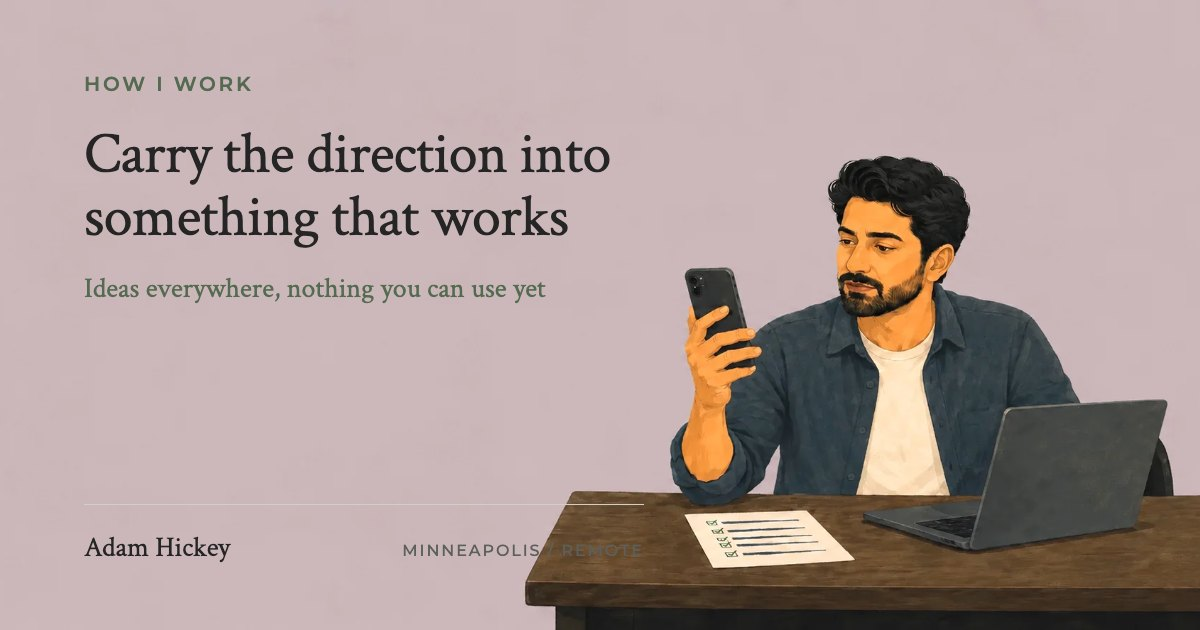
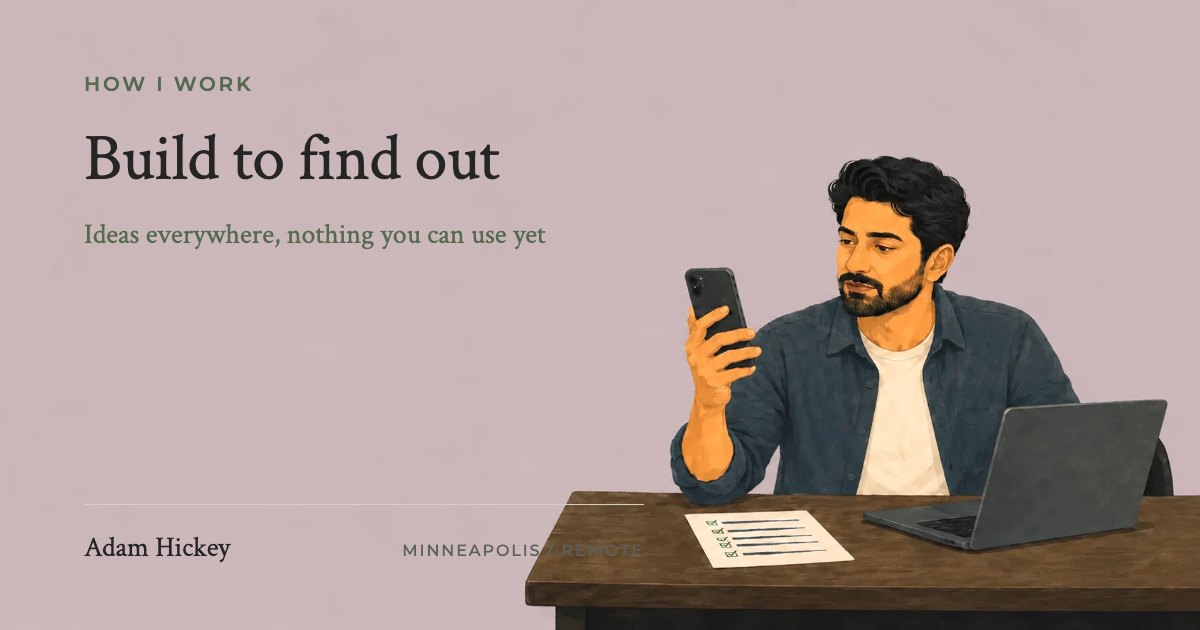
How I Work speaks the new position: the band says agents build now too, two cards are renamed to the system everyone builds from and building to find out, and the bullets name where a person decides and the checks on every change
The homepage band "What I do inside a product organization" still read as
the relay the Lab card above it retires. Its intro now says the four are
twenty years old and what changed is who builds. Card 01 names which
decisions stay with a person and a working version instead of a deck.
Card 02, "Set standards other teams adopt", is "Build the system everyone
builds from", with the rules written down for new teams and agents and
checks on every change. Card 04, "Carry the direction into something that
works", is "Build to find out", with engineers deciding from something
real. Card 03 is unchanged.

The two new headings are also the h1s and JSON-LD names of their
engagement pages, the Related list titles on seventeen pages, the next
links between the four engagement pages, og.mjs and proof-cards.mjs. All
of them move together, and the two share cards are re-rendered. The design
system page's dek now says its rules are written down so people and coding
agents can build from them, so card 02's new bullet has backing on the
page it opens. llms.txt gets the same headings and bullets. <title>s and
meta descriptions are unchanged, so the search phrases hold.

Changed region(s): [[0.0617, 0.2111, 0.5242, 0.3921], [0.0617, 0.4524, 0.4625, 0.4825]]

diff --git a/index.html b/index.html
@@ -803,7 +803,7 @@
         <header class="section-head reveal">
           <p class="section-eyebrow">How I Work</p>
           <h2>What I do inside a product organization</h2>
-          <p>Nearly all of this was done with product owners, engineers, analysts and executives, on products none of us owned alone. Four things I bring to a team. Each has a page: how it goes, step by step, and where it is shown.</p>
+          <p>Four things I bring to a team. I&rsquo;ve done them for twenty years, with product owners, engineers, analysts and executives. What changed is who builds: agents do now too, so each one starts with what they build from. Each has a page: how it goes, step by step, and where it is shown.</p>
         </header>
         <div class="engagement-grid stagger">
           <a class="engagement-card reveal" href="engagement/product-clarity.html">
@@ -812,19 +812,19 @@
             <h3>Turn ambiguity into a decision</h3>
             <ul class="engagement-points">
               <li>The problem in one sentence everyone recognizes</li>
-              <li>The decisions in order, one at a time</li>
-              <li>A direction tangible enough to argue with</li>
+              <li>The decisions in order, and which ones stay with a person</li>
+              <li>A working version to argue with, not a deck</li>
             </ul>
             <span class="engagement-go" aria-hidden="true">Walk through it<svg viewBox="0 0 24 24" fill="none" stroke="currentColor" stroke-width="1.6" stroke-linecap="round" stroke-linejoin="round"><path d="M5 12h14"/><path d="m12 5 7 7-7 7"/></svg></span>
           </a>
           <a class="engagement-card reveal" href="engagement/design-system-foundation.html">
             <span class="engagement-num" aria-hidden="true">02</span>
             <div class="engagement-figure"><img src="img/engagement/02-system.webp?v=9" width="1080" height="720" alt="A loose pile of hand-sketched index cards beside a tidy grid of identical stamped ones: one design system every team builds from." loading="lazy" decoding="async" /></div>
-            <h3>Set standards other teams adopt</h3>
+            <h3>Build the system everyone builds from</h3>
             <ul class="engagement-points">
               <li>One design system across 40+ SAP apps</li>
-              <li>Quality checks written into the release process</li>
-              <li>Teams trained until UX was their own job</li>
+              <li>Rules written down, so new teams and agents follow them without asking</li>
+              <li>Checks on every change, so quality holds without me in the room</li>
             </ul>
             <span class="engagement-go" aria-hidden="true">Walk through it<svg viewBox="0 0 24 24" fill="none" stroke="currentColor" stroke-width="1.6" stroke-linecap="round" stroke-linejoin="round"><path d="M5 12h14"/><path d="m12 5 7 7-7 7"/></svg></span>
           </a>
@@ -842,10 +842,10 @@
           <a class="engagement-card reveal" href="engagement/working-product-prototype.html">
             <span class="engagement-num" aria-hidden="true">04</span>
             <div class="engagement-figure"><img src="img/engagement/04-ai.webp?v=11" width="1080" height="720" alt="Dozens of sketched sticky notes thinning out toward one paper airplane on a drawn runway: many ideas narrowed to one working prototype." loading="lazy" decoding="async" /></div>
-            <h3>Carry the direction into something that works</h3>
+            <h3>Build to find out</h3>
             <ul class="engagement-points">
               <li>A working prototype in days, built with coding agents</li>
-              <li>Work with engineers early, using prototypes to make decisions concrete</li>
+              <li>Engineers deciding with something real in hand, early</li>
               <li>A build, kill or park call made on evidence</li>
             </ul>
             <span class="engagement-go" aria-hidden="true">Walk through it<svg viewBox="0 0 24 24" fill="none" stroke="currentColor" stroke-width="1.6" stroke-linecap="round" stroke-linejoin="round"><path d="M5 12h14"/><path d="m12 5 7 7-7 7"/></svg></span>

diff --git a/engagement/working-product-prototype.html b/engagement/working-product-prototype.html
@@ -91,7 +91,7 @@
           "@type": "WebPage",
           "@id": "https://adamhickey.com/engagement/working-product-prototype.html#page",
           "url": "https://adamhickey.com/engagement/working-product-prototype.html",
-          "name": "Carry the direction into something that works",
+          "name": "Build to find out",
           "description": "From ideas, sketches and half-decisions to a working product real people can use, in days, built with coding agents, and an honest build, kill, or park call.",
           "about": {
             "@id": "https://adamhickey.com/#adam"
@@ -119,7 +119,7 @@
             {
               "@type": "ListItem",
               "position": 3,
-              "name": "Carry the direction into something that works",
+              "name": "Build to find out",
               "item": "https://adamhickey.com/engagement/working-product-prototype.html"
             }
           ]
@@ -300,7 +300,7 @@
         <div class="container case-wide">
           <div class="eng3-hero-inner">
             <p class="eng3-kicker">How I work &middot; Ideas everywhere, nothing you can use yet</p>
-            <h1>Carry the direction into something that works</h1>
+            <h1>Build to find out</h1>
             <p class="eng3-dek">From ideas, sketches and half-decisions to a working product real people can use, in days, built with coding agents, and an honest build, kill, or park call.</p>
           </div>
         </div>
@@ -527,7 +527,7 @@
             <li>
               <span class="fact-node"><svg class="fact-icon" style="--i:2" viewBox="0 0 24 24" aria-hidden="true"><path pathLength="1" d="M4.2 4.2h6.4v6.4H4.2z"/><path pathLength="1" d="M13.4 4.2h6.4v6.4h-6.4z"/><path pathLength="1" d="M4.2 13.4h6.4v6.4H4.2z"/><path pathLength="1" d="M13.4 13.4h6.4v6.4h-6.4z"/></svg></span>
               <p>Several teams need one shared foundation.</p>
-              <a href="design-system-foundation.html">Set standards other teams adopt&nbsp;&rarr;</a>
+              <a href="design-system-foundation.html">Build the system everyone builds from&nbsp;&rarr;</a>
             </li>
           </ul>
         </div>
@@ -604,7 +604,7 @@
       <div class="container case-wide">
         <a href="design-system-foundation.html" class="eng3-closing-next">
           <span class="eng3-closing-next-eyebrow">Next &middot; How I work</span>
-          <span class="eng3-closing-next-title">Set standards other teams adopt &rarr;</span>
+          <span class="eng3-closing-next-title">Build the system everyone builds from &rarr;</span>
           <span class="eng3-closing-next-dek">The products need a system</span>
         </a>
       </div>

diff --git a/engagement/design-system-foundation.html b/engagement/design-system-foundation.html
@@ -91,7 +91,7 @@
           "@type": "WebPage",
           "@id": "https://adamhickey.com/engagement/design-system-foundation.html#page",
           "url": "https://adamhickey.com/engagement/design-system-foundation.html",
-          "name": "Set standards other teams adopt",
+          "name": "Build the system everyone builds from",
           "description": "Turn four versions of the same data table into one shared foundation the teams actually use, with the operating rules that keep it that way.",
           "about": {
             "@id": "https://adamhickey.com/#adam"
@@ -119,7 +119,7 @@
             {
               "@type": "ListItem",
               "position": 3,
-              "name": "Set standards other teams adopt",
+              "name": "Build the system everyone builds from",
               "item": "https://adamhickey.com/engagement/design-system-foundation.html"
             }
           ]
@@ -294,8 +294,8 @@
         <div class="container case-wide">
           <div class="eng3-hero-inner">
             <p class="eng3-kicker">How I work &middot; The products need a system</p>
-            <h1>Set standards other teams adopt</h1>
-            <p class="eng3-dek">Turn four versions of the same data table into one shared foundation the teams actually use, with the operating rules that keep it that way.</p>
+            <h1>Build the system everyone builds from</h1>
+            <p class="eng3-dek">Turn four versions of the same data table into one shared foundation the teams actually use, with its rules written down so people and coding agents can build from it without asking.</p>
           </div>
         </div>
       </div>
@@ -472,7 +472,7 @@
             <li>
               <span class="fact-node"><svg class="fact-icon" style="--i:2" viewBox="0 0 24 24" aria-hidden="true"><path pathLength="1" d="M3.4 11 20.6 3.8 17 20.2l-5.3-6.3z"/><path pathLength="1" d="M20.6 3.8 11.7 13.9"/></svg></span>
               <p>There is an idea, and nothing exists yet to judge it by.</p>
-              <a href="working-product-prototype.html">Carry the direction into something that works&nbsp;&rarr;</a>
+              <a href="working-product-prototype.html">Build to find out&nbsp;&rarr;</a>
             </li>
           </ul>
         </div>

diff --git a/engagement/product-clarity.html b/engagement/product-clarity.html
@@ -482,12 +482,12 @@
             <li>
               <span class="fact-node"><svg class="fact-icon" style="--i:1" viewBox="0 0 24 24" aria-hidden="true"><path pathLength="1" d="M4.2 4.2h6.4v6.4H4.2z"/><path pathLength="1" d="M13.4 4.2h6.4v6.4h-6.4z"/><path pathLength="1" d="M4.2 13.4h6.4v6.4H4.2z"/><path pathLength="1" d="M13.4 13.4h6.4v6.4h-6.4z"/></svg></span>
               <p>Several teams are solving the same problem in different ways.</p>
-              <a href="design-system-foundation.html">Set standards other teams adopt&nbsp;&rarr;</a>
+              <a href="design-system-foundation.html">Build the system everyone builds from&nbsp;&rarr;</a>
             </li>
             <li>
               <span class="fact-node"><svg class="fact-icon" style="--i:2" viewBox="0 0 24 24" aria-hidden="true"><path pathLength="1" d="M3.4 11 20.6 3.8 17 20.2l-5.3-6.3z"/><path pathLength="1" d="M20.6 3.8 11.7 13.9"/></svg></span>
               <p>There is an idea, and nothing exists yet to judge it by.</p>
-              <a href="working-product-prototype.html">Carry the direction into something that works&nbsp;&rarr;</a>
+              <a href="working-product-prototype.html">Build to find out&nbsp;&rarr;</a>
             </li>
           </ul>
         </div>
@@ -572,7 +572,7 @@
       <div class="container case-wide">
         <a href="working-product-prototype.html" class="eng3-closing-next">
           <span class="eng3-closing-next-eyebrow">Next &middot; How I work</span>
-          <span class="eng3-closing-next-title">Carry the direction into something that works &rarr;</span>
+          <span class="eng3-closing-next-title">Build to find out &rarr;</span>
           <span class="eng3-closing-next-dek">Ideas everywhere, nothing you can use yet</span>
         </a>
       </div>

diff --git a/lab/agent-review.html b/lab/agent-review.html
@@ -998,7 +998,7 @@
             <li><a class="related-link" href="../writing/what-a-design-system-needs-to-explain-to-an-agent.html"><span class="related-kind">Article</span><span class="related-title">What a design system needs to explain to an agent</span><span class="related-go" aria-hidden="true">&rarr;</span></a></li>
             <li><a class="related-link" href="../writing/what-does-a-design-system-need-once-ai-is-in-the-product.html"><span class="related-kind">Article</span><span class="related-title">What does a design system need once AI is in the product?</span><span class="related-go" aria-hidden="true">&rarr;</span></a></li>
             <li><a class="related-link" href="../writing/what-does-a-person-need-to-supervise-an-ai-agent.html"><span class="related-kind">Article</span><span class="related-title">What does a person need to supervise an AI agent?</span><span class="related-go" aria-hidden="true">&rarr;</span></a></li>
-            <li><a class="related-link" href="../engagement/design-system-foundation.html"><span class="related-kind">How I work</span><span class="related-title">Set standards other teams adopt</span><span class="related-go" aria-hidden="true">&rarr;</span></a></li>
+            <li><a class="related-link" href="../engagement/design-system-foundation.html"><span class="related-kind">How I work</span><span class="related-title">Build the system everyone builds from</span><span class="related-go" aria-hidden="true">&rarr;</span></a></li>
           </ul>
         </nav>
         <a class="build-next" href="../prototype/deploy-console.html">

diff --git a/writing/what-does-a-design-system-need-once-ai-is-in-the-product.html b/writing/what-does-a-design-system-need-once-ai-is-in-the-product.html
@@ -420,7 +420,7 @@
             <li><a class="related-link" href="../case-study/sap-product-maturity.html"><span class="related-kind">Case study</span><span class="related-title">Making 40+ enterprise apps feel like one product</span><span class="related-go" aria-hidden="true">&rarr;</span></a></li>
             <li><a class="related-link" href="../prototype/dispatch-cockpit.html"><span class="related-kind">Prototype</span><span class="related-title">An AI recommendation the dispatcher can check and overrule</span><span class="related-go" aria-hidden="true">&rarr;</span></a></li>
             <li><a class="related-link" href="../lab/agent-review.html"><span class="related-kind">Case study</span><span class="related-title">Agent Review</span><span class="related-go" aria-hidden="true">&rarr;</span></a></li>
-            <li><a class="related-link" href="../engagement/design-system-foundation.html"><span class="related-kind">How I work</span><span class="related-title">Set standards other teams adopt</span><span class="related-go" aria-hidden="true">&rarr;</span></a></li>
+            <li><a class="related-link" href="../engagement/design-system-foundation.html"><span class="related-kind">How I work</span><span class="related-title">Build the system everyone builds from</span><span class="related-go" aria-hidden="true">&rarr;</span></a></li>
           </ul>
         </nav>
         <a class="build-next" href="what-is-a-product-designer-for-when-anyone-can-build.html">

diff --git a/case-study/sap-product-maturity.html b/case-study/sap-product-maturity.html
@@ -44,7 +44,7 @@
           "mainEntityOfPage": "https://adamhickey.com/case-study/sap-product-maturity.html",
           "image": "https://adamhickey.com/img/og/sap-product-maturity.jpg",
           "datePublished": "2026-06-01",
-          "dateModified": "2026-10-12",
+          "dateModified": "2026-10-20",
           "author": {
             "@id": "https://adamhickey.com/#adam"
           },
@@ -264,7 +264,7 @@
       <nav class="related" aria-labelledby="related-label">
         <p class="related-label" id="related-label">Related</p>
         <ul class="related-list">
-          <li><a class="related-link" href="../engagement/design-system-foundation.html"><span class="related-kind">How I work</span><span class="related-title">Set standards other teams adopt</span><span class="related-go" aria-hidden="true">&rarr;</span></a></li>
+          <li><a class="related-link" href="../engagement/design-system-foundation.html"><span class="related-kind">How I work</span><span class="related-title">Build the system everyone builds from</span><span class="related-go" aria-hidden="true">&rarr;</span></a></li>
           <li><a class="related-link" href="../lab/agent-review.html"><span class="related-kind">Case study</span><span class="related-title">Agent Review</span><span class="related-go" aria-hidden="true">&rarr;</span></a></li>
         </ul>
       </nav>

diff --git a/prototype/dispatch-cockpit.html b/prototype/dispatch-cockpit.html
@@ -789,7 +789,7 @@
           <ul class="related-list">
             <li><a class="related-link" href="../writing/enterprise-ai-should-help-people-decide-not-just-answer.html"><span class="related-kind">Article</span><span class="related-title">Enterprise AI should help people decide, not just answer</span><span class="related-go" aria-hidden="true">&rarr;</span></a></li>
             <li><a class="related-link" href="../case-study/dispatch-complexity.html"><span class="related-kind">Case study</span><span class="related-title">One real-time view of a 450+ truck fleet</span><span class="related-go" aria-hidden="true">&rarr;</span></a></li>
-            <li><a class="related-link" href="../engagement/working-product-prototype.html"><span class="related-kind">How I work</span><span class="related-title">Carry the direction into something that works</span><span class="related-go" aria-hidden="true">&rarr;</span></a></li>
+            <li><a class="related-link" href="../engagement/working-product-prototype.html"><span class="related-kind">How I work</span><span class="related-title">Build to find out</span><span class="related-go" aria-hidden="true">&rarr;</span></a></li>
           </ul>
         </nav>
         <a class="build-next" href="../case-study/innovators-studio-visual-identity.html">

diff --git a/writing/what-makes-an-interface-feel-finished.html b/writing/what-makes-an-interface-feel-finished.html
@@ -379,7 +379,7 @@
         <nav class="related" aria-labelledby="related-label">
           <p class="related-label" id="related-label">Related</p>
           <ul class="related-list">
-            <li><a class="related-link" href="../engagement/design-system-foundation.html"><span class="related-kind">How I work</span><span class="related-title">Set standards other teams adopt</span><span class="related-go" aria-hidden="true">&rarr;</span></a></li>
+            <li><a class="related-link" href="../engagement/design-system-foundation.html"><span class="related-kind">How I work</span><span class="related-title">Build the system everyone builds from</span><span class="related-go" aria-hidden="true">&rarr;</span></a></li>
             <li><a class="related-link" href="../case-study/this-site.html"><span class="related-kind">Build write-up</span><span class="related-title">How I built this site</span><span class="related-go" aria-hidden="true">&rarr;</span></a></li>
             <li><a class="related-link" href="../prototype/dispatch-cockpit.html"><span class="related-kind">Prototype</span><span class="related-title">An AI recommendation the dispatcher can check and overrule</span><span class="related-go" aria-hidden="true">&rarr;</span></a></li>
           </ul>

diff --git a/prototype/deploy-console.html b/prototype/deploy-console.html
@@ -667,7 +667,7 @@
           <ul class="related-list">
             <li><a class="related-link" href="../writing/what-does-a-developer-need-from-an-interface-on-a-bad-day.html"><span class="related-kind">Article</span><span class="related-title">What does a developer need from an interface on a bad day?</span><span class="related-go" aria-hidden="true">&rarr;</span></a></li>
             <li><a class="related-link" href="../case-study/this-site.html"><span class="related-kind">Build write-up</span><span class="related-title">How I built this site</span><span class="related-go" aria-hidden="true">&rarr;</span></a></li>
-            <li><a class="related-link" href="../engagement/working-product-prototype.html"><span class="related-kind">How I work</span><span class="related-title">Carry the direction into something that works</span><span class="related-go" aria-hidden="true">&rarr;</span></a></li>
+            <li><a class="related-link" href="../engagement/working-product-prototype.html"><span class="related-kind">How I work</span><span class="related-title">Build to find out</span><span class="related-go" aria-hidden="true">&rarr;</span></a></li>
           </ul>
         </nav>
         <a class="build-next" href="dispatch-cockpit.html">

diff --git a/writing/enterprise-ai-should-help-people-decide-not-just-answer.html b/writing/enterprise-ai-should-help-people-decide-not-just-answer.html
@@ -434,7 +434,7 @@
           <ul class="related-list">
             <li><a class="related-link" href="../prototype/dispatch-cockpit.html"><span class="related-kind">Prototype</span><span class="related-title">An AI recommendation the dispatcher can check and overrule</span><span class="related-go" aria-hidden="true">&rarr;</span></a></li>
             <li><a class="related-link" href="../case-study/lucy-learns.html"><span class="related-kind">Build write-up</span><span class="related-title">How I built Lucy Learns</span><span class="related-go" aria-hidden="true">&rarr;</span></a></li>
-            <li><a class="related-link" href="../engagement/working-product-prototype.html"><span class="related-kind">How I work</span><span class="related-title">Carry the direction into something that works</span><span class="related-go" aria-hidden="true">&rarr;</span></a></li>
+            <li><a class="related-link" href="../engagement/working-product-prototype.html"><span class="related-kind">How I work</span><span class="related-title">Build to find out</span><span class="related-go" aria-hidden="true">&rarr;</span></a></li>
           </ul>
         </nav>
         <a class="build-next" href="what-does-a-person-need-to-supervise-an-ai-agent.html">

diff --git a/engagement/embedded-senior-product-design.html b/engagement/embedded-senior-product-design.html
@@ -463,12 +463,12 @@
             <li>
               <span class="fact-node"><svg class="fact-icon" style="--i:1" viewBox="0 0 24 24" aria-hidden="true"><path pathLength="1" d="M4.2 4.2h6.4v6.4H4.2z"/><path pathLength="1" d="M13.4 4.2h6.4v6.4h-6.4z"/><path pathLength="1" d="M4.2 13.4h6.4v6.4H4.2z"/><path pathLength="1" d="M13.4 13.4h6.4v6.4h-6.4z"/></svg></span>
               <p>Several teams need one shared foundation.</p>
-              <a href="design-system-foundation.html">Set standards other teams adopt&nbsp;&rarr;</a>
+              <a href="design-system-foundation.html">Build the system everyone builds from&nbsp;&rarr;</a>
             </li>
             <li>
               <span class="fact-node"><svg class="fact-icon" style="--i:2" viewBox="0 0 24 24" aria-hidden="true"><path pathLength="1" d="M3.4 11 20.6 3.8 17 20.2l-5.3-6.3z"/><path pathLength="1" d="M20.6 3.8 11.7 13.9"/></svg></span>
               <p>There is an idea, and nothing exists yet to judge it by.</p>
-              <a href="working-product-prototype.html">Carry the direction into something that works&nbsp;&rarr;</a>
+              <a href="working-product-prototype.html">Build to find out&nbsp;&rarr;</a>
             </li>
           </ul>
         </div>
